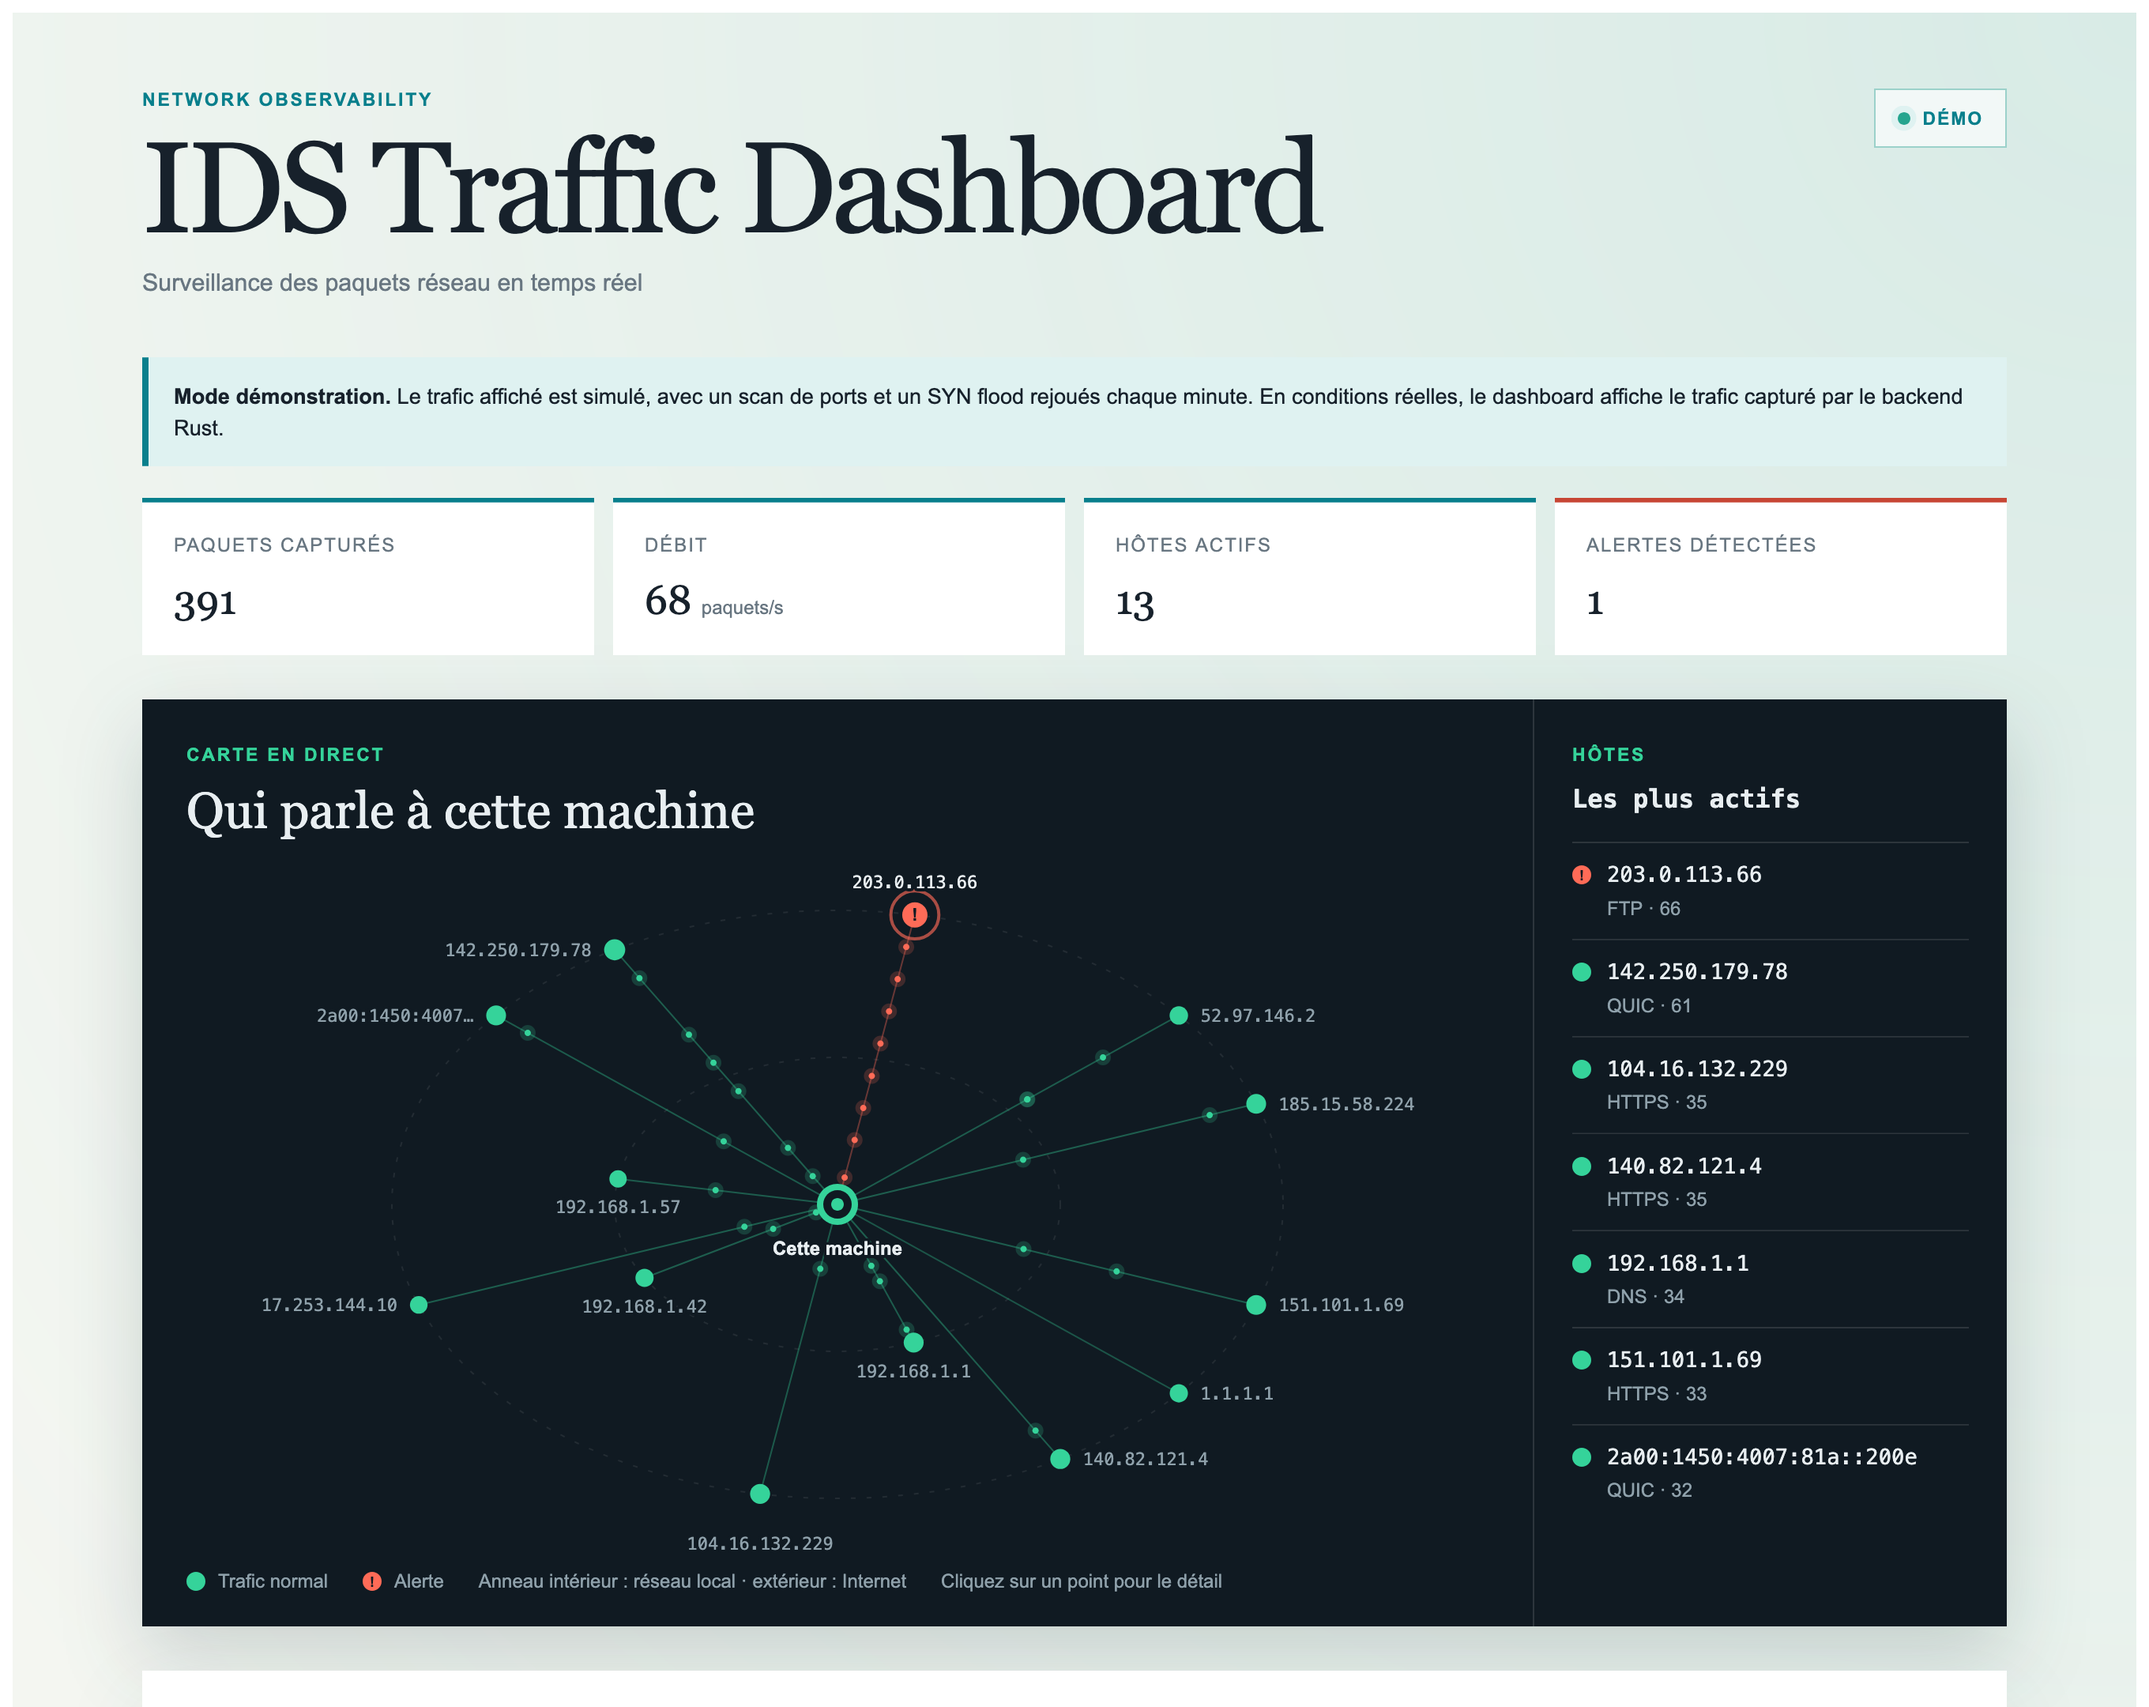
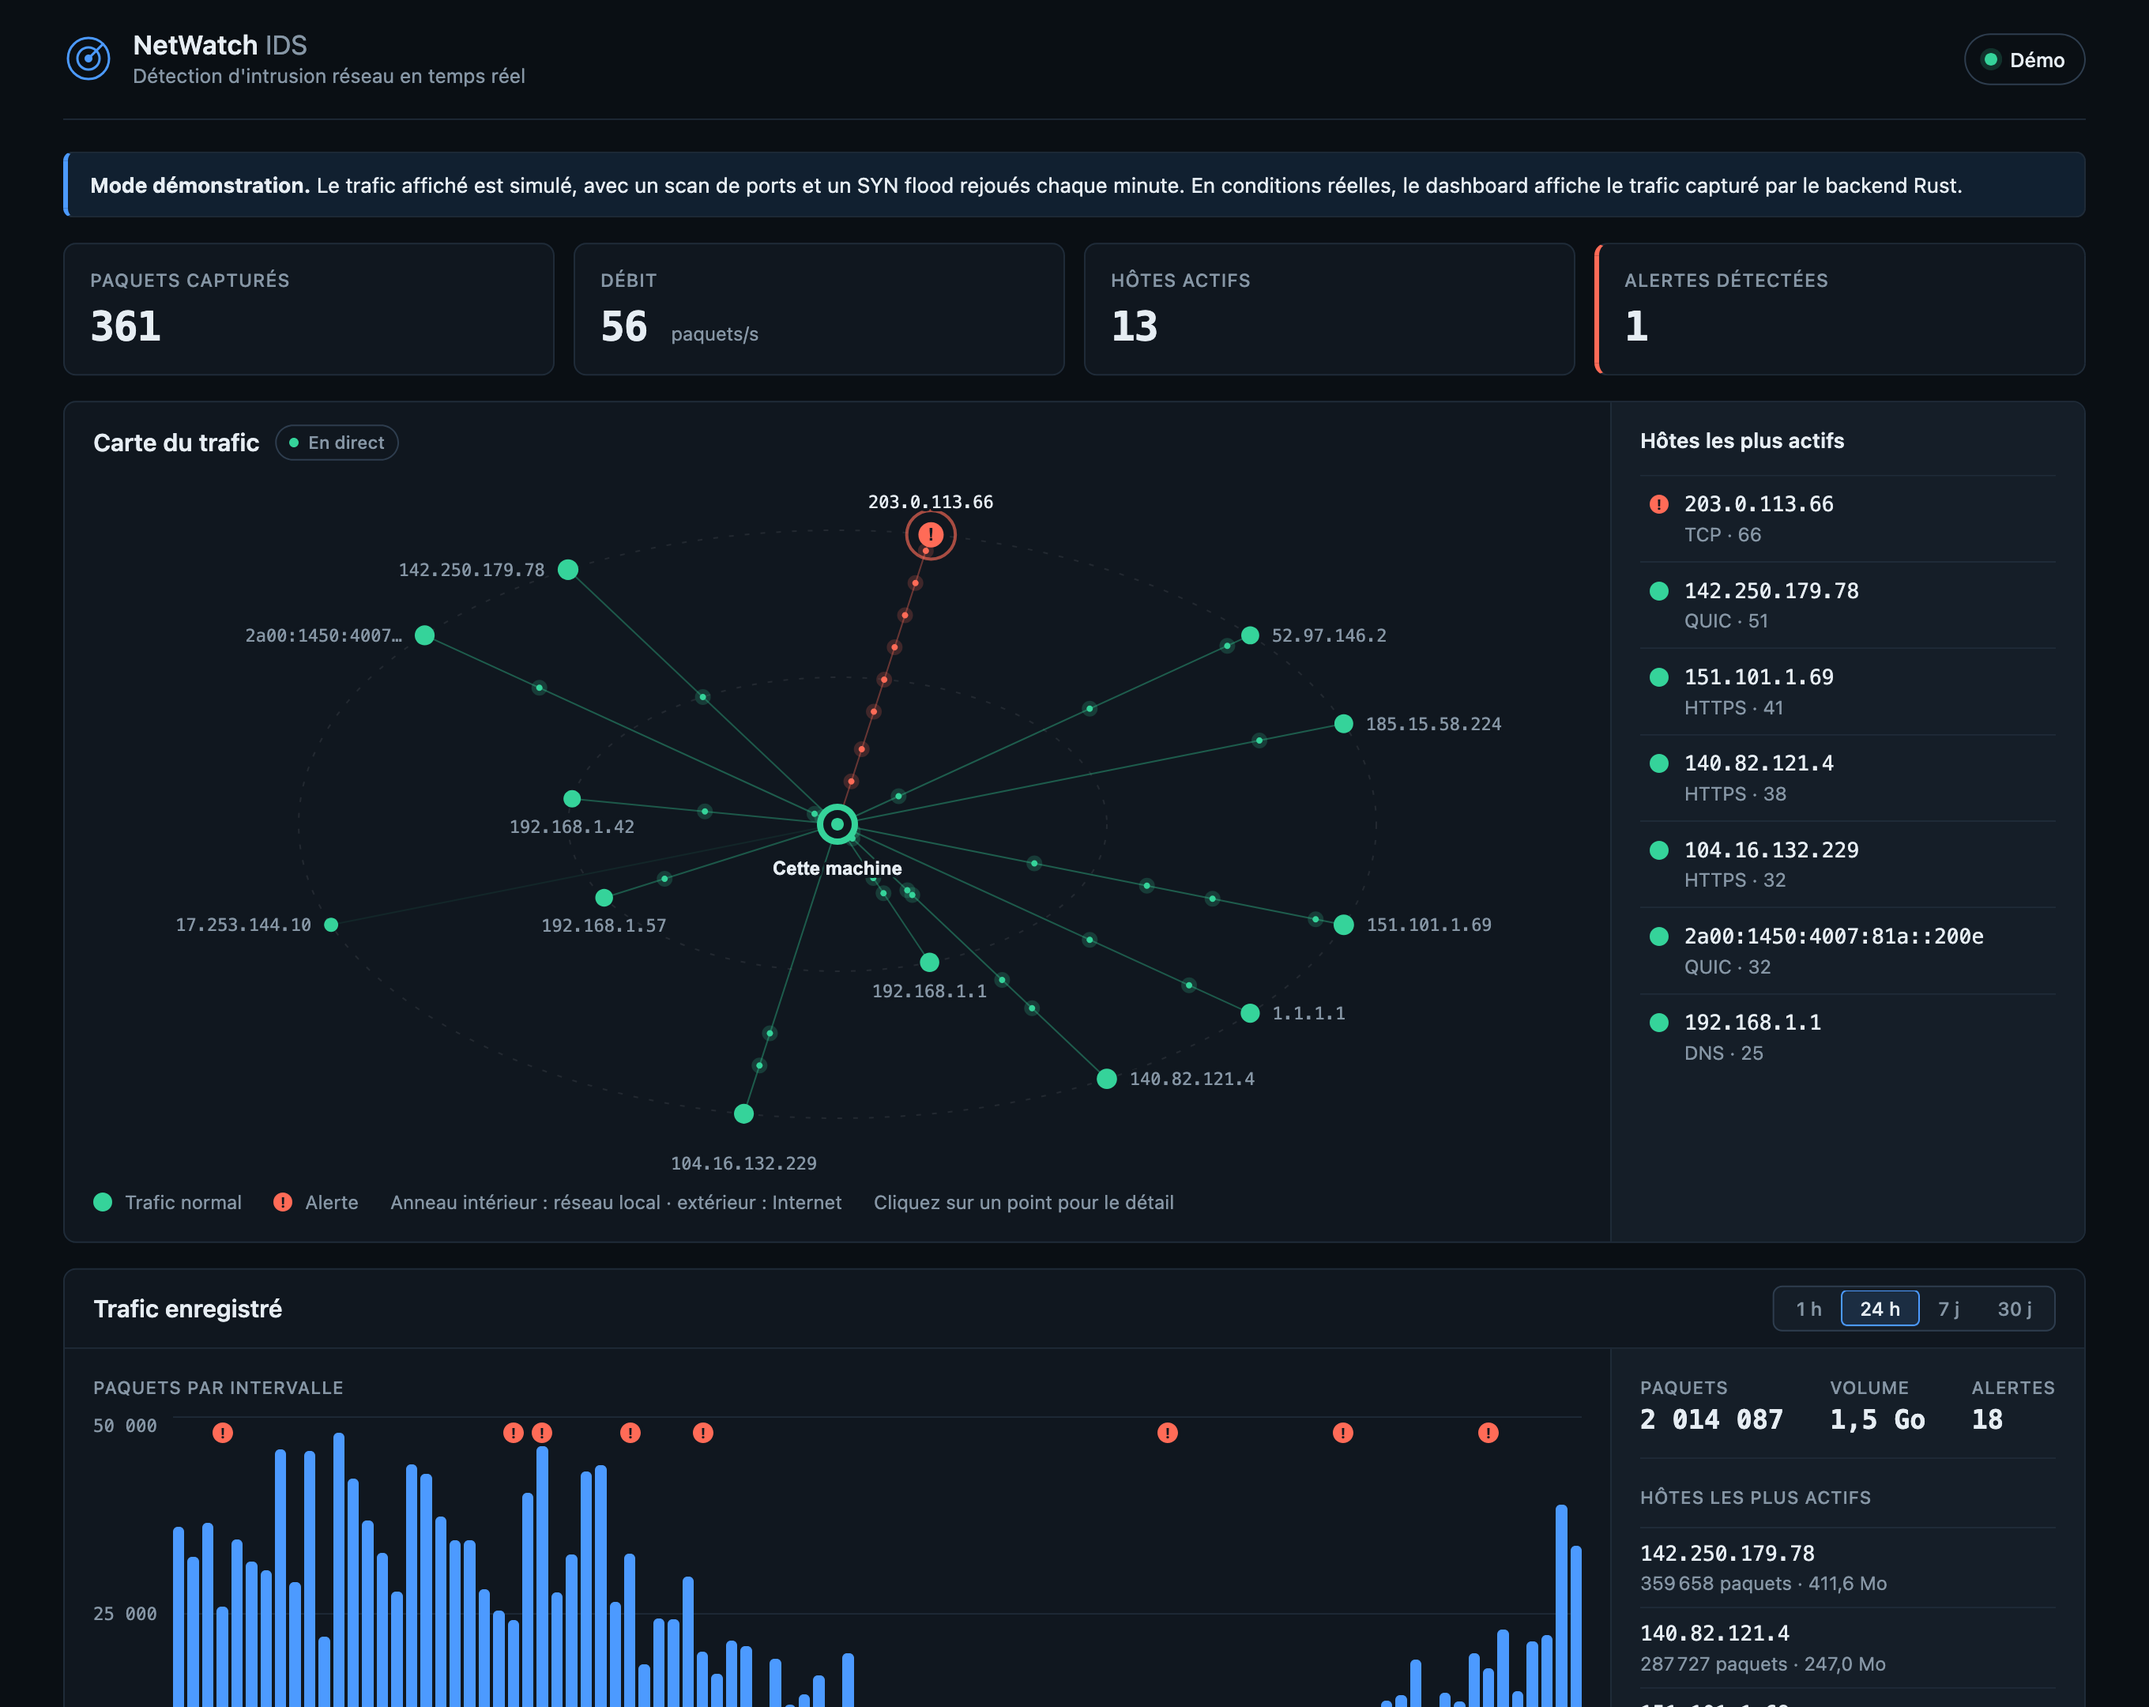
docs: licence MIT, badges, lien vers la démo

diff --git a/README.md b/README.md
@@ -1,4 +1,7 @@
-# IDS Project
+# NetWatch IDS
+
+[![CI](https://github.com/IbrahimKakaev/netwatch-ids/actions/workflows/ci.yml/badge.svg)](https://github.com/IbrahimKakaev/netwatch-ids/actions/workflows/ci.yml)
+[![Licence MIT](https://img.shields.io/badge/licence-MIT-blue.svg)](LICENSE)
 
 Système de détection d'intrusion réseau en temps réel : un moteur de capture et
 de détection écrit en **Rust**, et un dashboard **Angular** qui rend le trafic
@@ -20,10 +23,13 @@ lisible d'un coup d'œil.
   simulé et des attaques rejouées.
 - **Testé** : 26 tests côté Rust, 34 côté Angular, lancés à chaque push.
 
-## Démo sans installation
+## Démo en ligne
+
+**[ibrahimkakaev.github.io/netwatch-ids](https://ibrahimkakaev.github.io/netwatch-ids/)**
 
 Le dashboard embarque un simulateur : trafic ordinaire en continu, puis un scan
-de ports et un SYN flood rejoués chaque minute.
+de ports et un SYN flood rejoués chaque minute. La démo en ligne est publiée
+automatiquement à chaque push. Pour la lancer en local :
 
 ```bash
 cd frontend
@@ -76,6 +82,7 @@ frontend/src/app/
 | Stockage | SQLite (rusqlite) |
 | Interface | Angular 22 (signals, sans zone), canvas 2D |
 | Qualité | cargo test, clippy, rustfmt, Vitest, GitHub Actions |
+| Déploiement | GitHub Pages (démo) |
 
 ## Choix techniques
 
@@ -216,3 +223,7 @@ cd frontend && npm test
   rendrait plus parlants.
 - Le flux n'est pas authentifié : le backend est prévu pour un usage local.
 - La capture suppose un lien Ethernet ou la boucle locale.
+
+## Licence
+
+[MIT](LICENSE)
